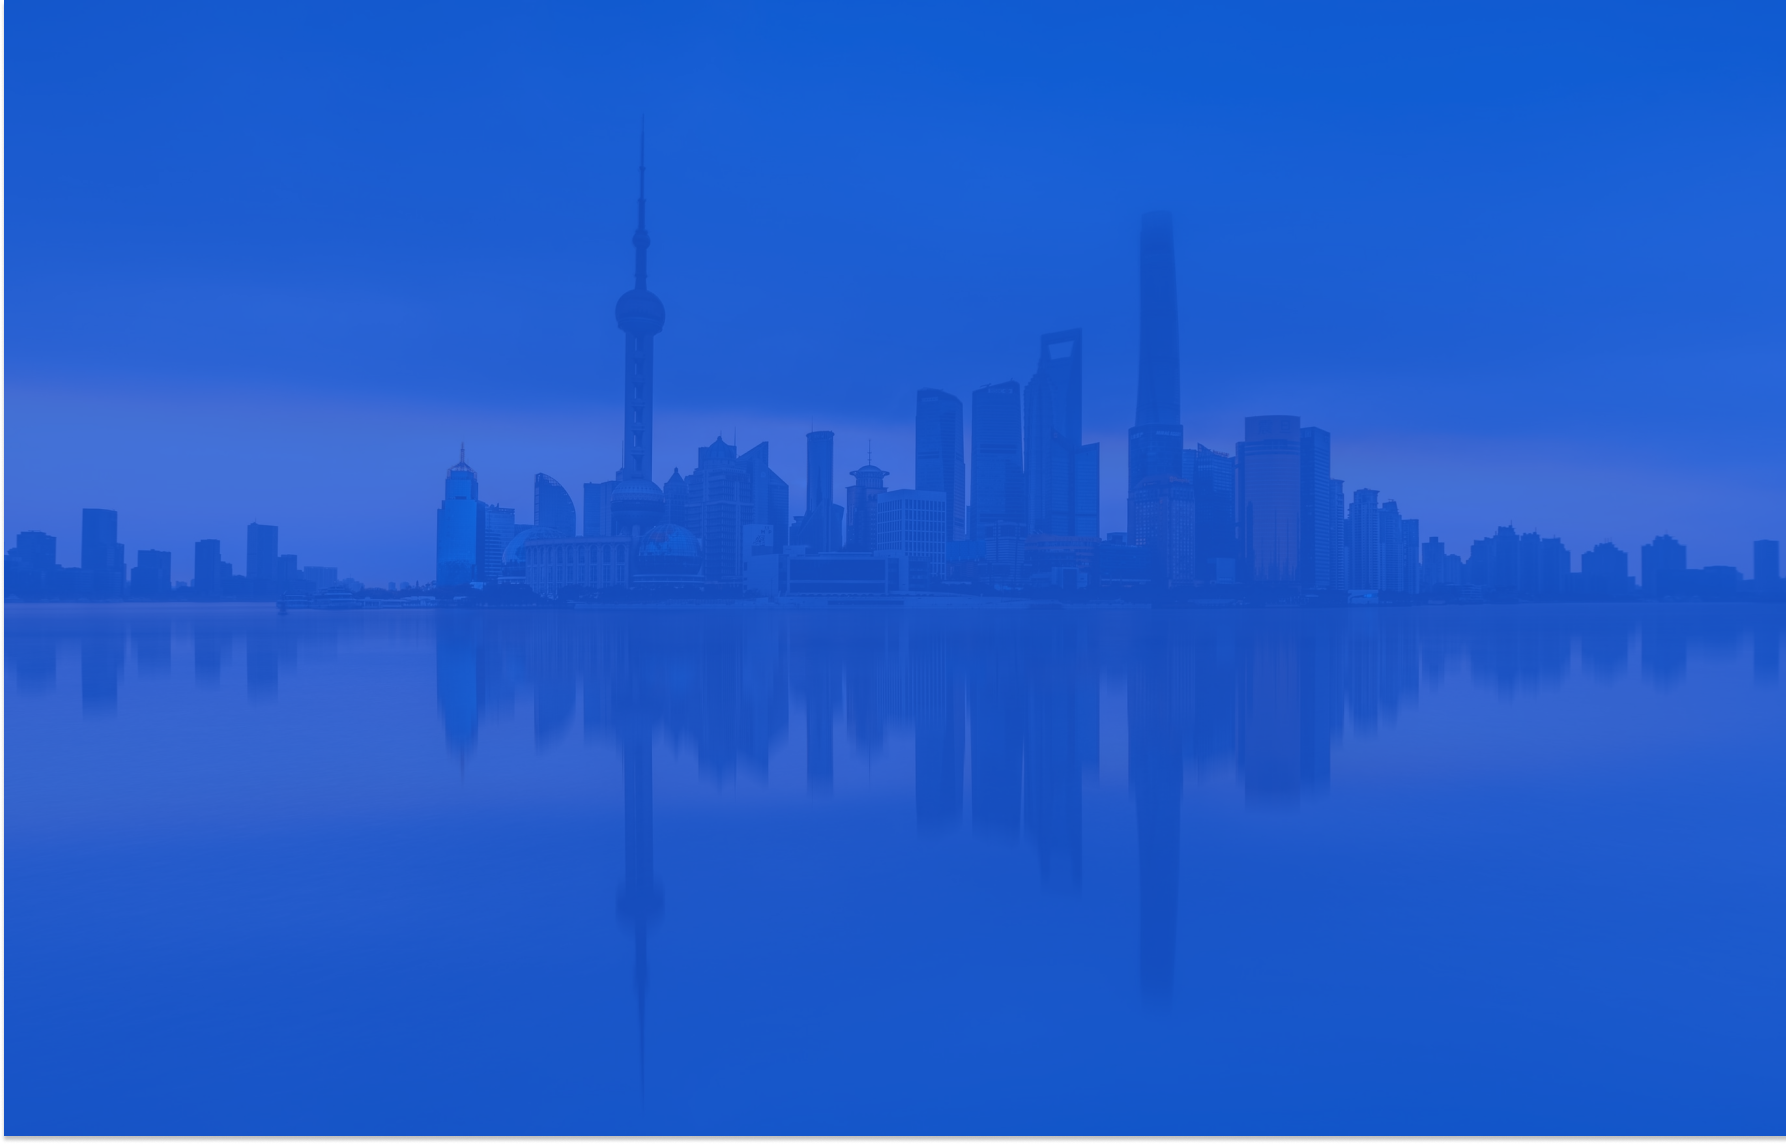
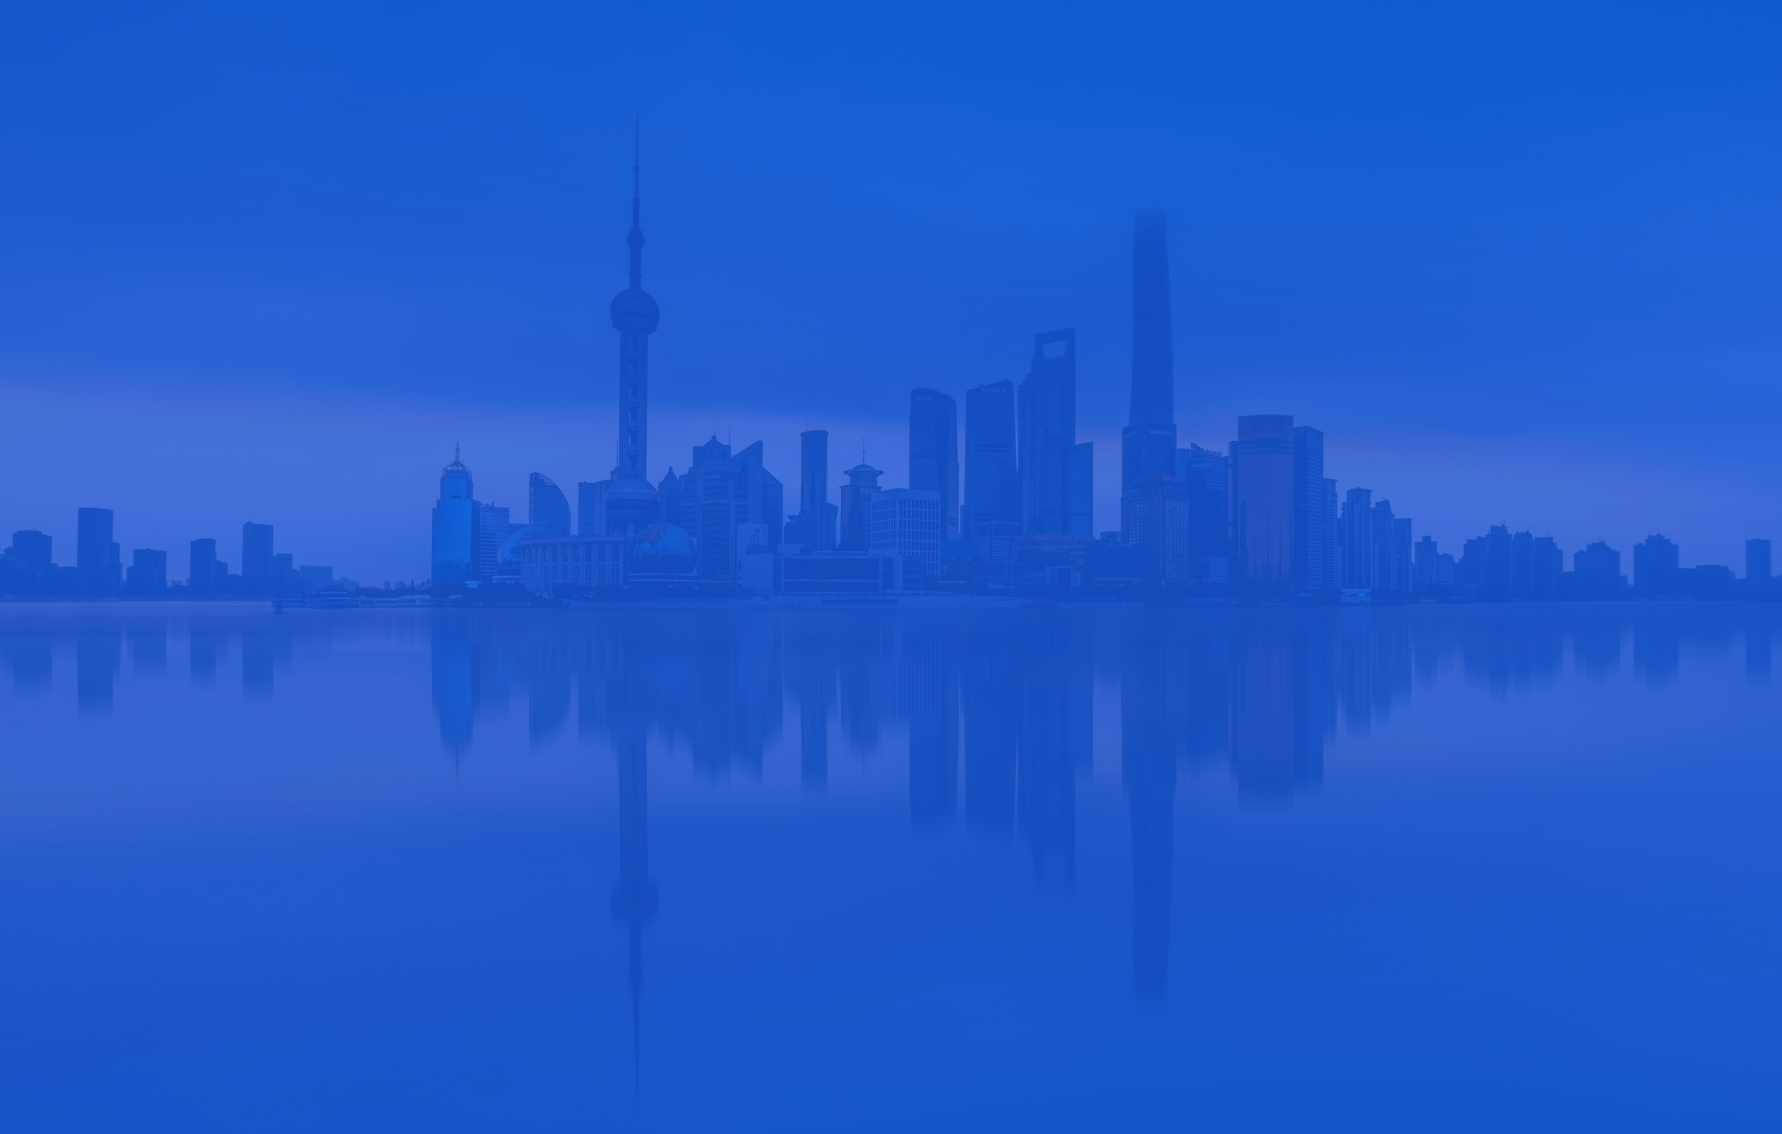
Add files via upload

diff --git a/index.html b/index.html
@@ -263,7 +263,6 @@
                 <p>javascript를 이용하여 버튼을 눌러 재생 및 정지, 리스트를 볼수있고,
                 음악이 재생되는 뮤직 플레이어 컨텐츠를 작업하였습니다.</p>
                 <a href="#" class="js_view">code view</a>
-                <a class="dribbble" href="https://dribbble.com/shots/7441241-Button-Hover-Effects" target="_blank"><img src="https://cdn.dribbble.com/assets/dribbble-ball-mark-2bd45f09c2fb58dbbfb44766d5d1d07c5a12972d602ef8b32204d28fa3dda554.svg" alt=""></a>
               </div>
               <div class="js_cont musicplayer">
                 <iframe class="music" src="https://leeheezin.github.io/javascript/music%20player/" frameborder="0"></iframe>
@@ -281,7 +280,6 @@
                   도형을 바꾸고 스페이스바로 빠르기 조절이 가능합니다.
                 </p>
                 <a href="#" class="js_view">code view</a>
-                <a class="dribbble" href="https://dribbble.com/shots/7441241-Button-Hover-Effects" target="_blank"><img src="https://cdn.dribbble.com/assets/dribbble-ball-mark-2bd45f09c2fb58dbbfb44766d5d1d07c5a12972d602ef8b32204d28fa3dda554.svg" alt=""></a>
               </div>
               <div class="js_cont tetrisgame">
                 <!--tetris  -->
@@ -299,7 +297,6 @@
                   마우스 드래그로 이동하여 맞추는 퍼즐입니다. 
                 </p>
                 <a href="#" class="js_view">code view</a>
-                <a class="dribbble" href="https://dribbble.com/shots/7441241-Button-Hover-Effects" target="_blank"><img src="https://cdn.dribbble.com/assets/dribbble-ball-mark-2bd45f09c2fb58dbbfb44766d5d1d07c5a12972d602ef8b32204d28fa3dda554.svg" alt=""></a>
               </div>
               <div class="js_cont puzzlegame">
                 <iframe class="puzzle" src="https://leeheezin.github.io/javascript/puzzle/" frameborder="0"></iframe>
@@ -316,7 +313,6 @@
                    입력하면 다음 단어로 넘어가고, 시간제한 및 점수획득이 가능합니다.
                 </p>
                 <a href="#" class="js_view">code view</a>
-                <a class="dribbble" href="https://dribbble.com/shots/7441241-Button-Hover-Effects" target="_blank"><img src="https://cdn.dribbble.com/assets/dribbble-ball-mark-2bd45f09c2fb58dbbfb44766d5d1d07c5a12972d602ef8b32204d28fa3dda554.svg" alt=""></a>
               </div>
               <div class="js_cont typing_master">
                 <iframe class="typing"src="https://leeheezin.github.io/javascript/Typing%20Master/" frameborder="0"></iframe>
@@ -333,7 +329,6 @@
                    무작위로 배치된 16장의 카드에서 동일한 이미지가 있는 같은 짝의 카드를 기억하여 맞추는것입니다.
                 </p>
                 <a href="#" class="js_view">code view</a>
-                <a class="dribbble" href="https://dribbble.com/shots/7441241-Button-Hover-Effects" target="_blank"><img src="https://cdn.dribbble.com/assets/dribbble-ball-mark-2bd45f09c2fb58dbbfb44766d5d1d07c5a12972d602ef8b32204d28fa3dda554.svg" alt=""></a>
               </div>
               <div class="js_cont card_game">
                 <iframe class="card" src="https://leeheezin.github.io/javascript/Card%20Game/" frameborder="0"></iframe>
@@ -349,7 +344,6 @@
                 <p>javascript를 이용한 타자게임 컨텐츠입니다.
                   페이지수마다 제한시간은 60초이며, 타이핑의 오타와 속도,시간을 테스트 할 수 있습니다.</p>
                   <a href="#" class="js_view">code view</a>
-                  <a class="dribbble" href="https://dribbble.com/shots/7441241-Button-Hover-Effects" target="_blank"><img src="https://cdn.dribbble.com/assets/dribbble-ball-mark-2bd45f09c2fb58dbbfb44766d5d1d07c5a12972d602ef8b32204d28fa3dda554.svg" alt=""></a>
               </div>
               <div class="js_cont typingspeedgame">
                 <iframe class="typingspeed" src="https://leeheezin.github.io/javascript/Typing%20speed%20game/" frameborder="0"></iframe>

diff --git a/assets/css/style.css b/assets/css/style.css
@@ -25,13 +25,13 @@ body {
 #nav {}
 .inner {padding-left: 7%; margin: 0 auto; text-transform: uppercase;}
 .intro {display: flex; justify-content: center; align-items: center; width: 100%; background-size: 100%;}
-.intro_text {padding: 30vw 0;}
+.intro_text {padding: 26vw 0;}
 .intro_text h2 {white-space: nowrap; text-transform: uppercase; font-family: "Abel"; font-size: 2vw; font-weight: 400; color: #fff; letter-spacing: 2vw;}
 #section1 {width: 100%; background-color: #2A57DC;}
 #section2 {position: relative; width: 100%; background-color: #1458E4;}
 #section3 {width: 100%;}
 #section4 {width: 100%;}
-#section5 {}
+#section5 {width: 100%;}
 #section6 {}
 #section7 {}
 #section8 {background: #222;}
@@ -401,7 +401,7 @@ body {
 /* section5 */
 #section5 .projects {
   background:url('../img/intro2.png') no-repeat center;
-  background-size: cover;
+  background-size: 100%;
 }
 .pro {
   display: flex; 
@@ -540,9 +540,10 @@ body {
   width: 50%;
   float: left;
   border-right: 1px solid #c4c4c4;
+  border-bottom: 1px solid #c4c4c4;
 }
 .js_wrap:nth-child(odd) {
-  border:0;
+  border-right: 0;
 }
 .js_tit {width: 100%;}
 .js_txt {width: 100%; text-transform: uppercase;}
@@ -896,8 +897,10 @@ body {
 #section7 .intro {
   background-image: url('../img/intro4.png');
   background-size: 100%;
+  background-repeat: no-repeat;
+  background-position: center;
 }
-.ani_wrap {width: 100%;}
+.ani_wrap {width: 100%; border-bottom: 1px solid #e0e0e0;}
 .ani {
   display: flex;
   justify-content: space-between;
